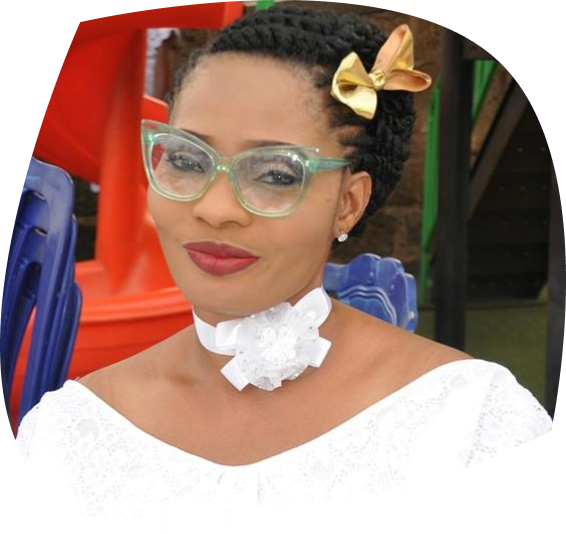
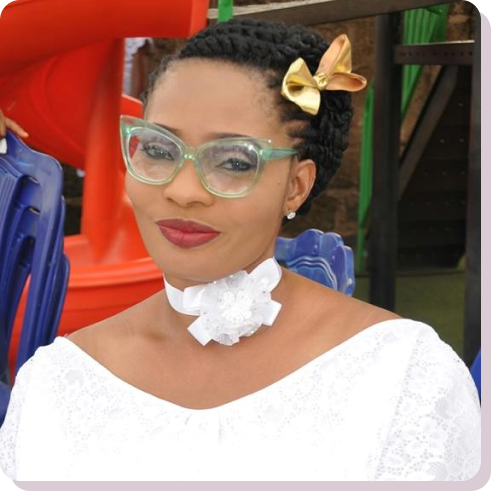
restructured the welcome section

diff --git a/styles/Home.module.css b/styles/Home.module.css
@@ -118,42 +118,42 @@
 
 /* HEROBANNER */
 
-.herobanner {
+.banner1,
+.banner2,
+.banner3 {
   height: 600px;
   width: 100%;
-  background-color: #ededed;
+  position: relative;
+  font-family: 'Piedra', cursive;
+  font-size: clamp(2rem, 3.5rem + 1.5vw, 10rem);
 }
 
-.heroContent {
-  padding-top: 13%;
+.banner1 {
+  background: linear-gradient(69.35deg, rgba(189, 0, 117, 0.1) 0%, rgba(231, 151, 4, 0.1) 99.45%), linear-gradient(0deg, rgba(0, 0, 0, 0.3), rgba(0, 0, 0, 0.3)), url("/numeracy.jpg") no-repeat center;
+  background-size: cover;
+}
+
+.banner2 {
+  background: linear-gradient(69.35deg, rgba(189, 0, 117, 0.1) 0%, rgba(231, 151, 4, 0.1) 99.45%), linear-gradient(0deg, rgba(0, 0, 0, 0.3), rgba(0, 0, 0, 0.3)), url("/umbrella.jpg") no-repeat center;
+  background-size: cover;
+}
+
+.banner3 {
+  background: linear-gradient(69.35deg, rgba(189, 0, 117, 0.1) 0%, rgba(231, 151, 4, 0.1) 99.45%), linear-gradient(0deg, rgba(0, 0, 0, 0.3), rgba(0, 0, 0, 0.3)), url("/literacy.jpg") no-repeat center;
+  background-size: cover;
+}
+
+.banner1>p,
+.banner2>p,
+.banner3>p {
   color: #fff;
-  margin-left: 10%;
+  position: absolute;
+  top: 70%;
+  left: 20%;
+  transform: translate(-50%, -50%);
 }
 
-.heroContent>p:nth-child(1) {
-  font-size: var(--heroFontPrimary);
-  font-family: 'Bree Serif', serif;
-  font-weight: bold;
-  letter-spacing: var(--secondaryLetterSpacing);
-  color: #bd0075;
-}
 
-.heroContent>p:nth-child(2) {
-  font-size: var(--heroFontSecondary);
-  font-family: 'Open Sans', sans-serif;
-  font-weight: bold;
-  letter-spacing: var(--secondaryLetterSpacing);
-  margin-top: -20px;
-  color: #000;
-}
-
-.heroContent>p:nth-child(3) {
-  font-size: var(--heroFontTetiary);
-  font-family: 'Open Sans', sans-serif;
-  font-weight: light;
-  letter-spacing: var(--secondaryLetterSpacing);
-  color: #000;
-}
 
 .enrolButtonContainer {
   margin-top: 30px;
@@ -220,30 +220,48 @@
 }
 
 /* WELCOME NOTES */
+.welcomWrapper {
+  margin-top: 10%;
+  box-shadow: 0px 0px 4px 4px rgba(189, 0, 117, 0.3);
+  border: 2px solid #BD0075;
+  border-radius: 20px;
+  backdrop-filter: blur(28.5px);
+}
+
 .welcomeHeader {
   font-family: 'Bree Serif', serif;
   font-weight: bold;
   font-size: var(--primaryFontSize);
-  margin-top: var(--sectionMargin);
+  margin-top: 1rem;
   margin-bottom: 2rem;
+}
+
+.welcomeHeader>p {
+  color: linear-gradient(90deg, #BD0075 40.7%, rgba(231, 151, 4, 0.91) 106.39%);
 }
 
 .welcomeTitle {
   padding: 0px 15px;
+  max-inline-size: 66ch;
+  display: grid;
+  place-content: center;
 }
 
 .welcomeTitle>p:nth-child(1) {
-  font-family: 'Open Sans', sans-serif;
-  letter-spacing: var(--secondaryLetterSpacing);
-  font-weight: bold;
+  font-family: 'Poppins', sans-serif;
+  font-weight: 700;
   font-size: var(--secondaryFontSize);
+  letter-spacing: var(--secondaryLetterSpacing);
 }
 
 .welcomeTitle>p:nth-child(2) {
-  font-family: 'Open Sans', sans-serif;
-  font-weight: light;
-  letter-spacing: 0.25px;
+  font-family: 'Poppins', sans-serif;
+  font-weight: 400;
+  line-height: 26px;
+  letter-spacing: .035rem;
   font-size: var(--tetiaryFontSize);
+  margin: 0 auto;
+
 }
 
 .welcomeTitle>p:nth-child(3) {
@@ -426,19 +444,22 @@
   margin-top: 10%;
   margin-bottom: 10%;
 }
-.testContainer>p:nth-child(1){
+
+.testContainer>p:nth-child(1) {
   font-weight: 500;
   font-family: 'Open Sans', sans-serif;
   text-transform: capitalize;
 }
-.testContainer>p:nth-child(2){
+
+.testContainer>p:nth-child(2) {
   font-weight: 800;
   margin-left: 40%;
   font-family: 'Open Sans', sans-serif;
   text-transform: capitalize;
 
 }
-.testContainer>p:nth-child(3){
+
+.testContainer>p:nth-child(3) {
   margin-left: 40%;
   font-family: 'Open Sans', sans-serif;
   text-transform: capitalize;
@@ -939,27 +960,33 @@
   width: 50%;
   margin: 10% auto;
 }
-.notFound{
+
+.notFound {
   display: grid;
   place-content: center;
 }
-.notFound>p:nth-child(1){
+
+.notFound>p:nth-child(1) {
   font-size: clamp(2em, 8rem + 1.5vw, 8em);
   font-weight: 700;
   text-align: center;
 }
-.notFound>p:nth-child(2){
-  font-size:  clamp(1em, 2rem + 1.5vw, 2.3em);;
+
+.notFound>p:nth-child(2) {
+  font-size: clamp(1em, 2rem + 1.5vw, 2.3em);
+  ;
   color: #bd0075;
   font-family: 'Bree Serif', serif;
   margin-top: -10%;
 }
-.notFound>p:last-child{
+
+.notFound>p:last-child {
   font-size: 1.2em;
   color: #000;
   font-family: 'Open Sans', sans-serif;
   text-align: center;
 }
+
 /* MEDIA QUERIES */
 @media screen and (max-width: 767px) {
   .hamburger {
@@ -1027,13 +1054,18 @@
     display: none;
   }
 
-  .heroContent {
-    text-align: center;
-    margin: 10% 0px 0px 0px;
+  .banner1,
+  .banner2,
+  .banner3 {
+    height: 400px;
   }
 
-  .heroContent>p:nth-child(2) {
-    font-size: 1.2rem;
+  .banner1>p,
+  .banner2>p,
+  .banner3>p {
+    top: 50%;
+    left: 50%;
+    font-size: 2rem;
   }
 
   .herobanner {
@@ -1220,7 +1252,8 @@
   .GTC {
     text-align: center;
   }
-  .invalidBG{
+
+  .invalidBG {
     width: 80%;
   }
 }
@@ -1239,8 +1272,16 @@
     width: 250px;
     margin-top: 40%;
   }
-  .invalidBG{
+
+  .invalidBG {
     width: 80%;
+  }
+
+  .banner1>p,
+  .banner2>p,
+  .banner3>p {
+    top: 50%;
+    left: 50%;
   }
 }
 
@@ -1248,7 +1289,8 @@
   .imageBackground {
     margin-top: 20% !important;
   }
-  .invalidBG{
+
+  .invalidBG {
     width: 80%;
   }
 }

diff --git a/components/Herobanner/index.js b/components/Herobanner/index.js
@@ -2,44 +2,34 @@ import { Container, Row, Col } from "react-bootstrap";
 import styles from "../../styles/Home.module.css";
 import Image from "next/image";
 import Link from "next/link";
+import "slick-carousel/slick/slick.css";
+import "slick-carousel/slick/slick-theme.css";
+import Slider from "react-slick";
+
 const Herobanner = () => {
+  const settings = {
+    dots: false,
+    infinite: true,
+    autoplay: true,
+    speed: 5000,
+    autoplaySpeed: 5000,
+    cssEase: "linear",
+    slidesToShow: 1,
+    slidesToScroll: 1,
+  };
   return (
-    <div className={`${styles.herobanner}`}>
-      <Container fluid className="p-0">
-        <Row>
-          <Col sm={6} md={6} lg={6}>
-            <div className={styles.heroContent}>
-              <p>Admission</p>
-              <p>Open for 2023 - 2024</p>
-              <p>Creche | Pre school | Nursery school | Grade school</p>
-            </div>
-            <div className={styles.enrolButtonContainer}>
-              <div className={styles.buttonBackPosition}>
-                <Image src="/buttonBk.png" alt="alt" width={150} height={100} />
-              </div>
-              <div className={styles.buttonFrontPosition}>
-                <Link href="/">
-                  <Image src="/rec6.png" alt="alt" width={150} height={100} />{" "}
-                </Link>
-                <div className={`${styles.buttonText}`}>
-                  <p>Enroll Now</p>
-                </div>
-              </div>
-            </div>
-          </Col>
-          <Col sm={6} md={6} lg={6}>
-            <div className=" flex justify-end p-0 ">
-              <Image
-                src="/frame.png"
-                alt="bg"
-                height={450}
-                width={540}
-                className="hidden md:block "
-              />
-            </div>
-          </Col>
-        </Row>
-      </Container>
+    <div className={styles.heroContainer}>
+      <Slider {...settings}>
+        <div className={`${styles.banner1} ${styles.overlay}`}>
+            <p>NUMERACY</p>
+        </div>
+        <div className={`${styles.banner2} ${styles.overlay}`}>
+            <p>UMBRELLA DAY</p>
+        </div>
+        <div className={`${styles.banner3} ${styles.overlay}`}>
+            <p>LITERACY</p>
+        </div>
+      </Slider>
     </div>
   );
 };

diff --git a/components/Welcome/index.js b/components/Welcome/index.js
@@ -6,8 +6,8 @@ import { motion } from "framer-motion";
 const Welcome = () => {
   return (
     <>
-      <Container>
-        <Row>
+      <Container className={styles.welcomWrapper}>
+        <Row className="">
           <motion.div
             initial={{ opacity: 0 }}
             whileInView={{ opacity: 1 }}
@@ -18,17 +18,14 @@ const Welcome = () => {
             }}
             className={styles.welcomeHeader}
           >
-            WELCOME NOTE
+            <p>WELCOME NOTE</p>
           </motion.div>
-          <Col sm={4}>
-          <div className="relative w-1/2 md:w-full m-auto">
-                <Image src="/bgimg.png" alt="head" width={420} height={350} />
-              <div className={`absolute ${styles.headmisImg}`}>
+          <Col sm={6}>
+              <div className={`w-1/2 md:w-full m-auto ${styles.headmisImg}`}>
                 <Image src="/Headmis.png" alt="head" width={410} height={350} />
               </div>
-            </div>
           </Col>
-          <Col sm={8}>
+          <Col sm={6}>
             <div className={` ${styles.welcomeTitle}`}>
               <motion.p
                 initial={{ opacity: 0 }}

diff --git a/pages/_document.js b/pages/_document.js
@@ -7,7 +7,7 @@ export default function Document() {
         <link rel="preconnect" href="https://fonts.googleapis.com" />
         <link rel="preconnect" href="https://fonts.gstatic.com" crossorigin />
         <link
-          href="https://fonts.googleapis.com/css2?family=Bree+Serif&family=Open+Sans:wght@300;400;500;600;700;800&display=swap"
+          href="https://fonts.googleapis.com/css2?family=Poppins:wght@300;400;500;600;700;800;900&display=swap"
           rel="stylesheet"
         />
       </Head>

diff --git a/components/Herobanner/Header/nav.js b/components/Herobanner/Header/nav.js
@@ -77,7 +77,7 @@ const BigNav = () => {
               <Image src="/buttonBk.png" alt="alt" width={150} height={100} />
             </div>
             <div className={styles.buttonFrontPosition}>
-              <Link href="/portal">
+              <Link href="http://Dashboard.schoolx.ng/parent">
                 <Image src="/rec6.png" alt="alt" width={150} height={100} />{' '}
                 <div className={` ml-5 ${styles.buttonText}`}>
                   <p>Portal</p>
